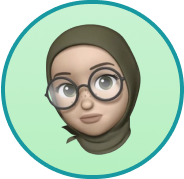
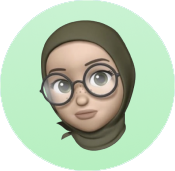
Design changes

Changed region(s): [[0.2286, 0.117, 0.8, 0.9064], [0.0, 0.0, 1.0, 1.0]]

diff --git a/src/pages/EditProfilePage.jsx b/src/pages/EditProfilePage.jsx
@@ -1,4 +1,4 @@
-import React, { useState } from "react";
+import React, { useEffect, useState } from "react";
 import Avtar1 from "../images/avtar1.png";
 import Avtar2 from "../images/avtar2.png";
 import Avtar3 from "../images/avtar3.png";
@@ -22,7 +22,16 @@ import { Link, useNavigate } from "react-router-dom";
 const EditProfilePage = () => {
   const navigate = useNavigate();
   const [selectedImage, setSelectedImage] = useState("");
+  const [activeAvatar, setActiveAvatar] = useState(null);
   const [activeTab, setActiveTab] = useState("photo");
+
+  useEffect(() => {
+    // Check local storage for profileImage
+    const storedImage = localStorage.getItem("profileImage");
+    if (storedImage) {
+      setSelectedImage(storedImage);
+    }
+  }, []);
   const handleSave = () => {
     // Check if there is a selected image or avatar before saving
     if (selectedImage) {
@@ -30,12 +39,11 @@ const EditProfilePage = () => {
     }
     navigate("/"); // Navigate back to the profile page after saving
   };
-
   const handleImageSelection = (event) => {
     const file = event.target.files[0];
     if (file) {
       const extension = file.name.split(".").pop().toLowerCase();
-      const allowedExtensions = [".png", ".svg", ".jpg", ".webp"];
+      const allowedExtensions = [".png", ".svg", ".jpeg", ".webp"];
       if (allowedExtensions.includes(`.${extension}`)) {
         const imageUrl = URL.createObjectURL(file);
         setSelectedImage(imageUrl);
@@ -69,15 +77,15 @@ const EditProfilePage = () => {
 
   const handleAvatarSelection = (avatarUrl) => {
     setSelectedImage(avatarUrl);
+    setActiveAvatar(avatarUrl); // Set the active avatar on selection
   };
-
   const handleCancel = () => {
     navigate("/");
   };
 
   return (
     <section>
-      <div className="container w-full mx-auto max-w-full sm:max-w-screen-md px-5 pt-24">
+      <div className="container w-full mx-auto max-w-full sm:max-w-screen-md px-5 pt-24 relative">
         <p className="text-xl text-main font-normal pb-2">
           Choose profile photo.
         </p>
@@ -113,25 +121,35 @@ const EditProfilePage = () => {
         {activeTab === "photo" && (
           <>
             {/* Display selected image or avatar */}
-            <div className="profile-image-container max-w-xs w-full h-[320px] mb-6 rounded-full bg-slate-100 border-2 border-gray-300 mx-auto  flex items-center justify-center   overflow-hidden">
+            <div className="profile-image-container max-w-[328px] w-full h-[328px] mb-6 rounded-full bg-slate-100 border-2 border-gray-300 mx-auto  flex items-center justify-center   overflow-hidden">
               <img
-                className="profile-image object-cover rounded-full w-full h-full"
+                className="profile-image object-center object-cover  w-full h-[328px]"
                 src={selectedImage}
                 alt="Profile"
+                height="328px"
+                width="328px"
               />
             </div>
             <div className="custom-file-button flex flex-row relative">
               {/* Choose Photo from local files */}
-              <label className="flex flex-row  gap-2 py-2 px-3 justify-center absolute left-2/4 bg-slate-50 mx-auto w-32 text-white rounded-primary border border-solid border-gray-950 border-opacity-10">
+              <label
+                for="fileInput"
+                className="flex flex-row justify-center gap-2 py-2 px-4 absolute left-2/4 bg-slate-50 mx-auto w-32 text-white rounded-primary border border-solid border-gray-950 border-opacity-10"
+              >
                 <img
                   src={Camera}
                   alt="Edit Profile"
                   className="h-5 w-full max-w-5 "
+                  height={"22px"}
+                  width={"22px"}
                 />
-                <span className="text-base text-main font-normal ">Edit</span>
+                <span className="text-base text-main font-normal ">
+                  Edit photo
+                </span>
               </label>
               <input
                 type="file"
+                id="fileInput"
                 onChange={handleImageSelection}
                 className="text-transparent w-full relative z-10"
               />
@@ -142,13 +160,20 @@ const EditProfilePage = () => {
         {activeTab === "avatar" && (
           <>
             {/* Dummy Avatars */}
-            <div className="avatar-list flex flex-wrap gap-2">
+            <div className="avatar-list grid grid-cols-4 sm:grid-cols-7 gap-2 justify-center">
               {dummyAvatars.map((avatarUrl, index) => (
                 <img
                   key={index}
                   src={avatarUrl}
                   alt="Avtar_Image"
-                  className="avatar "
+                  // className={`avatar border-2 border-solid border-transparent rounded-full ${
+                  //   activeAvatar === avatarUrl ? "border-teal-light " : ""
+                  // }`}
+                  className={`avatar ${
+                    activeAvatar === avatarUrl
+                      ? "border-teal-light border-2 rounded-full"
+                      : ""
+                  }`}
                   width="90"
                   height="90"
                   onClick={() => handleAvatarSelection(avatarUrl)}
@@ -161,7 +186,7 @@ const EditProfilePage = () => {
         {/* Save and Cancel buttons */}
         <button
           onClick={handleSave}
-          className="bg-white border mx-auto hover:bg-teal-light border-teal-light w-full sm:w-2/12 text-base font-normal py-3 mt-36 sm:mt-6 px-4 text-teal-light hover:text-white rounded-xl "
+          className="bg-white border mx-auto hover:bg-teal-light border-teal-light w-full sm:w-2/12 text-base font-normal py-3 mt-28 sm:mt-20 px-4 text-teal-light hover:text-white rounded-xl "
         >
           Save
         </button>

diff --git a/src/pages/ProfilePage.jsx b/src/pages/ProfilePage.jsx
@@ -76,16 +76,16 @@ const ProfilePage = () => {
 
   return (
     <section className="">
-      <div className="container w-full mx-auto max-w-full sm:max-w-screen-md px-5 pt-24">
+      <div className="container w-full mx-auto max-w-full sm:max-w-screen-md px-5 pt-[91px]">
         <p className="text-xl text-main font-normal pb-2">
           Let’s get to know you
         </p>
-        <p className="text-base text-main font-normal mb-6">
+        <p className="text-base text-secondery font-normal mb-6">
           Let us get to know you a bit better so you can get the best out of us
         </p>
         <div className="profile_form">
-          <div className="flex items-center mb-12 flex-col relative">
-            <div className="w-full max-w-40 h-40 flex items-center justify-center bg-gray-300 rounded-full overflow-hidden">
+          <div className="flex items-center mb-10 flex-col relative">
+            <div className="w-full max-w-40 h-40 flex items-center justify-center bg-gray-300 border-1 border-slate-950 border-opacity-5 border-gray-300 rounded-full overflow-hidden">
               {profileImage ? (
                 <img
                   src={profileImage}
@@ -116,20 +116,19 @@ const ProfilePage = () => {
           <div className="mb-4">
             <label
               htmlFor="firstName"
-              className=" font-normal mb-1 flex gap-1 text-sm"
+              className=" font-normal mb-1 flex gap-1 text-sm text-slate-950 opacity-70"
             >
               First Name <span className="text-red-600">*</span>
             </label>
             <input
               type="text"
               id="firstName"
-              placeholder="First Name"
               value={firstName}
               onChange={(e) => {
                 setFirstName(e.target.value);
                 setFirstNameError(false);
               }}
-              className={`border border-gray-300 bg-gray-50 rounded-xl  py-2.5 px-4 w-full text-base font-normal text-main ${
+              className={`border border-gray-300 bg-gray-50 rounded-xl  py-2.5 px-4 w-full text-base font-normal text-main leading ${
                 firstNameError && !firstName ? "border-red-500" : ""
               }`}
             />
@@ -142,20 +141,19 @@ const ProfilePage = () => {
           <div className="mb-4">
             <label
               htmlFor="lastName"
-              className=" font-normal mb-1 flex gap-1 text-sm"
+              className=" font-normal mb-1 flex gap-1 text-sm text-sm text-slate-950 opacity-70"
             >
               Last Name <span className="text-red-600">*</span>
             </label>
             <input
               type="text"
               id="lastName"
-              placeholder="Last Name"
               value={lastName}
               onChange={(e) => {
                 setLastName(e.target.value);
                 setLastNameError(false);
               }}
-              className={`border border-gray-300  bg-gray-50 rounded-xl  py-2.5 px-4 w-full text-base font-normal text-main ${
+              className={`border border-gray-300  bg-gray-50 rounded-xl  py-2.5 px-4 w-full text-base font-normal text-main leading ${
                 lastNameError && !lastName ? "border-red-500" : ""
               }`}
             />
@@ -165,10 +163,10 @@ const ProfilePage = () => {
               </span>
             )}
           </div>
-          <div className="mb-4">
+          <div>
             <label
               htmlFor="yearOfBirth"
-              className=" font-normal mb-1 flex gap-1 text-sm"
+              className=" font-normal mb-1 flex gap-1 text-sm text-sm text-slate-950 opacity-70"
             >
               {" "}
               Year of Birth <span className="text-red-600">*</span>
@@ -180,7 +178,7 @@ const ProfilePage = () => {
                 setYearOfBirth(e.target.value);
                 setYearOfBirthError(false);
               }}
-              className={`border border-gray-300 bg-gray-50 rounded-xl  py-2.5 px-4 w-full text-base font-normal text-main ${
+              className={`border border-gray-300 bg-gray-50 rounded-xl  py-2.5 px-4 w-full text-base font-normal text-main birth_date ${
                 yearOfBirthError && !yearOfBirth ? "border-red-500" : ""
               }`}
             >
@@ -195,7 +193,7 @@ const ProfilePage = () => {
           </div>
           <button
             onClick={handleSave}
-            className="bg-teal-light w-full sm:w-2/12 text-base font-normal py-3 mt-28 sm:mt-6 px-4 text-white  rounded-xl "
+            className="bg-teal-light w-full sm:w-2/12 text-base font-normal py-3 mt-28  mb-3 sm:mt-6 px-4 text-white  rounded-xl "
           >
             Save
           </button>

diff --git a/src/index.css b/src/index.css
@@ -12,25 +12,18 @@ body {
 *{
   margin: 0;
   padding:0;
+  outline: none;
   box-sizing: border-box;
 }
 
 .custom-file-button {
 	input[type="file"] {
-		margin-left: -2px !important;
 
 		&::-webkit-file-upload-button {
 			display: none;
 		}
 		&::file-selector-button {
 			display: none;
-		}
-	}
-
-	&:hover {
-		label {
-			background-color: #dde0e3;
-			cursor: pointer;
 		}
 	}
 }
@@ -41,6 +34,17 @@ body {
 .custom-file-button input{
   height: 42px;
 }
-input:focus{
-  border: none;
+.custom-file-button input[type="file"]{
+	display: none;
+}
+.birth_date{
+    -webkit-appearance: none;
+    -moz-appearance: none;
+    appearance: none;
+   background-image: url("./images/arrow.svg");
+   background-repeat: no-repeat;
+   background-position: 97%;
+}
+input:focus-visible{
+	outline: none;
 }
